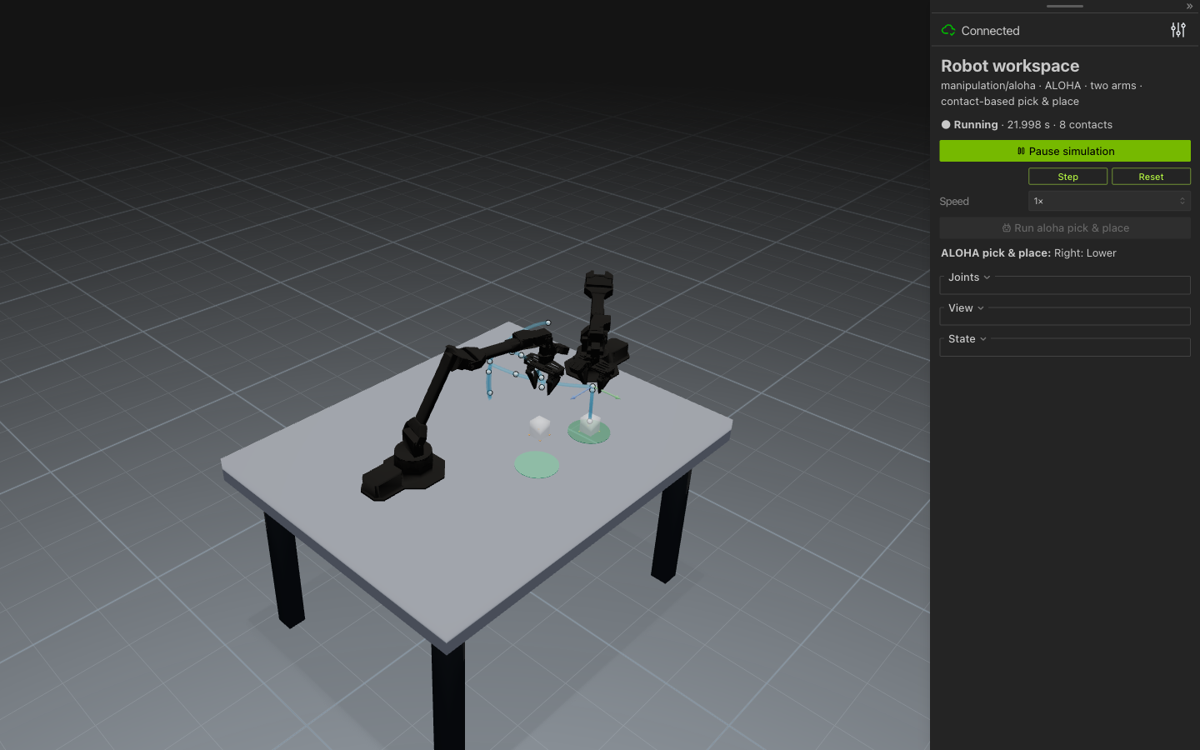
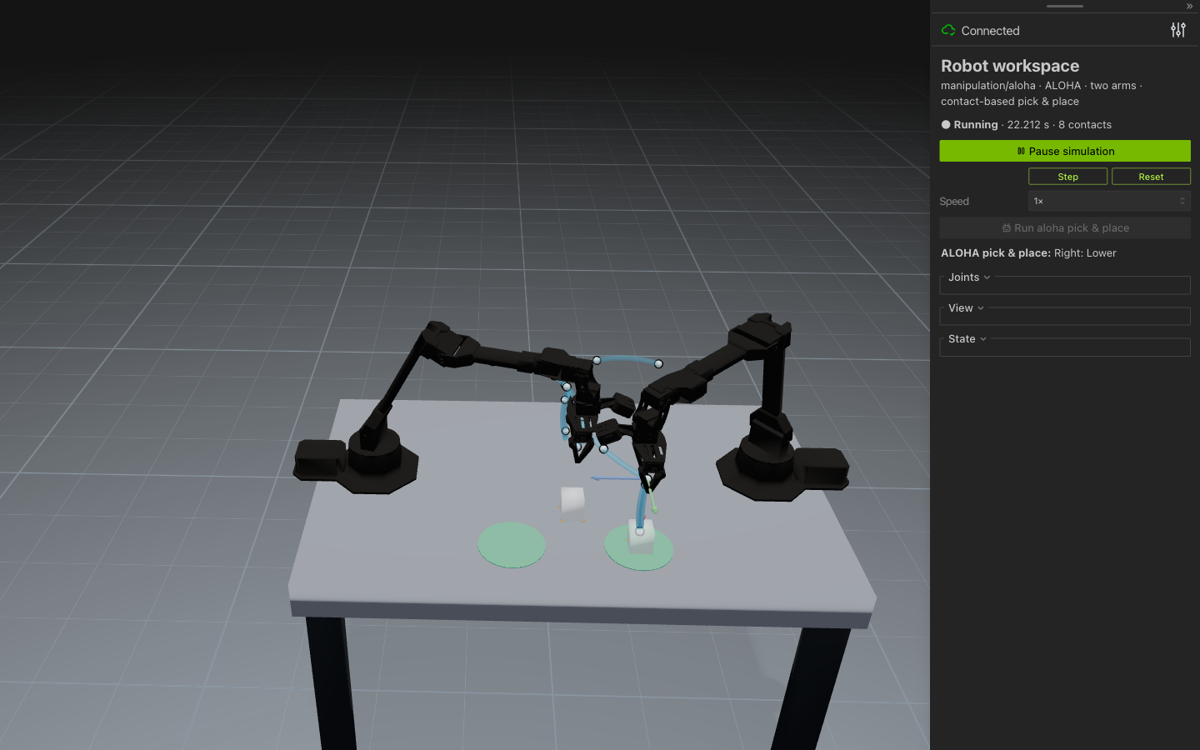
Center the ALOHA table on the arm pair
The manipulation workspace builder reused the Franka table (center x=0.15,
1.44 x 1.10 m) for ALOHA, so the left arm sat on the table edge while the right
arm stood 0.4 m inside it. ALOHA now uses the upstream 1.22 x 0.74 m table
centered at the origin, matching the +-0.469 m base mounts.

diff --git a/mujoco_viser_usage/tools/build_scene_assets.py b/mujoco_viser_usage/tools/build_scene_assets.py
@@ -197,17 +197,20 @@ for name, source, robot in (
     root = ET.Element("mujoco", model=name + "_workspace")
     add(root, "include", file="task_robot.xml")
     wb = environment(root, floor=-0.75)
+    # ALOHA arms sit at x = +-0.469 on the upstream 1.22 x 0.74 m table, centered.
+    # Franka stands at the origin, so its table extends forward.
+    aloha = name == "aloha"
     add(
         wb,
         "geom",
         name="object_table",
         type="box",
-        size=".72 .55 .045",
-        pos=".15 0 -.045",
+        size=".61 .37 .045" if aloha else ".72 .55 .045",
+        pos="0 0 -.045" if aloha else ".15 0 -.045",
         rgba=".55 .58 .63 1",
     )
-    for x in (-0.45, 0.75):
-        for y in (-0.43, 0.43):
+    for x in (-0.55, 0.55) if aloha else (-0.45, 0.75):
+        for y in (-0.32, 0.32) if aloha else (-0.43, 0.43):
             add(
                 wb,
                 "geom",
